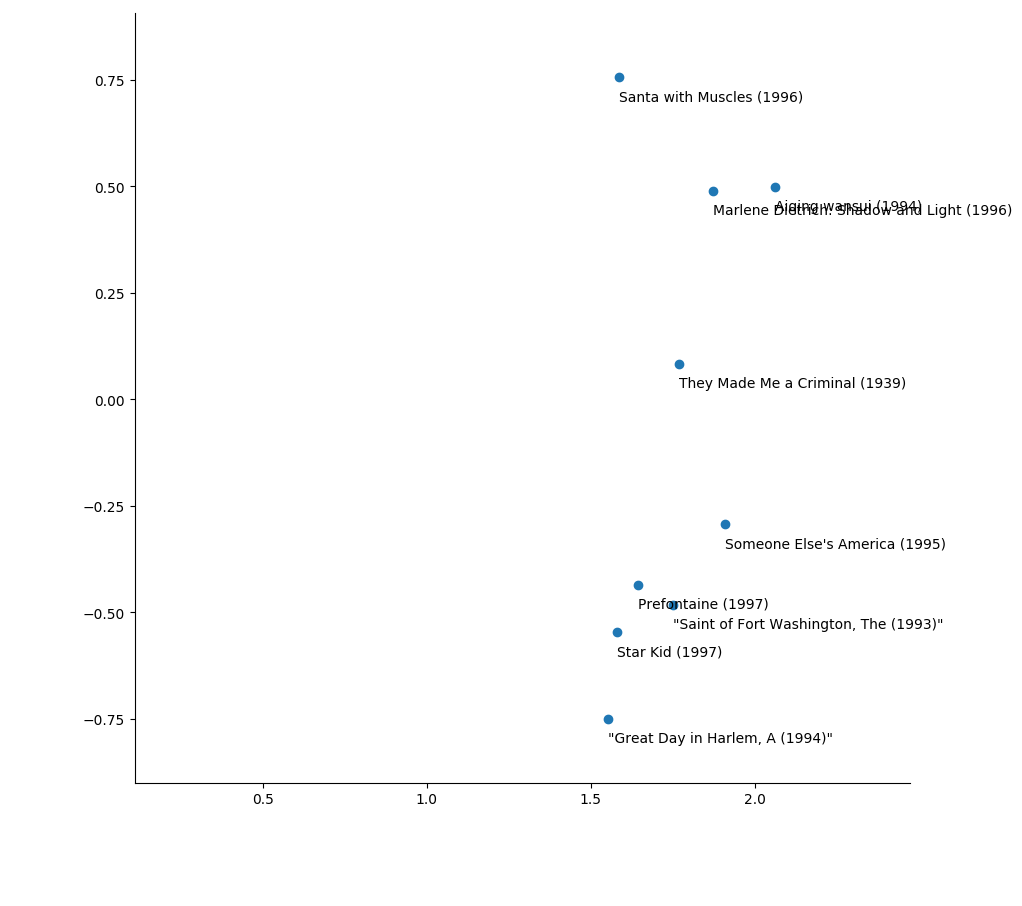
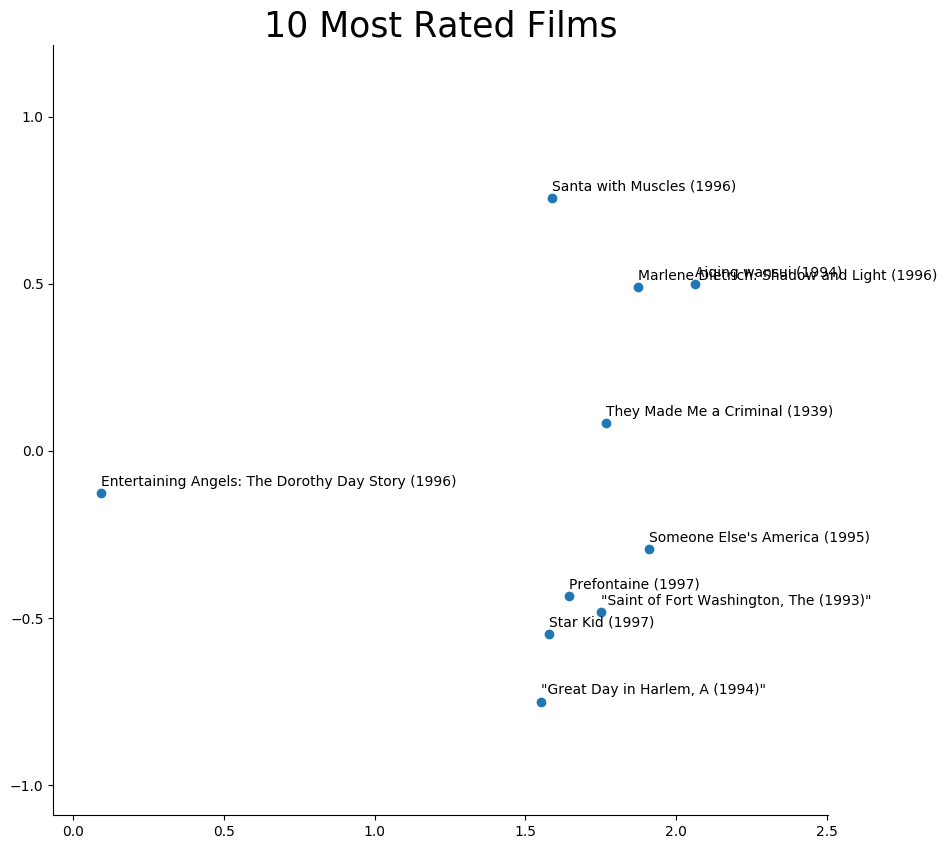
svd visualization working

diff --git a/src/svd_visualization.py b/src/svd_visualization.py
@@ -9,7 +9,7 @@ movie_names = create_dict()  # dict[movie_id: movie_name]
 movie_ratings = import_data()  # movies[movie_id, ratings[rating]]
 
 
-def twoD_viz(title, movie_ids, xy_coords, rect=None, dpi=100, off_set=0.04):
+def twoD_viz(title, movie_ids, xy_coords, rect, dpi=100, buf=0.1, annotate=True):
     '''
     param: movie_ids: 1d-list or numpy array of [movie_ids]
     param: xy_coords: 2d numpy array of [movie_x, movie_y] corresponding to 
@@ -20,12 +20,17 @@ def twoD_viz(title, movie_ids, xy_coords, rect=None, dpi=100, off_set=0.04):
     if rect is None:
         rect = np.array([xy_coords[:, 0].min(), xy_coords[:, 0].max(), 
             xy_coords[:, 1].min(), xy_coords[:, 1].max()])
-        print(rect)
+        width = rect[1] - rect[0]
+        height = rect[3] - rect[2]
+        rect[0] -= width * buf
+        rect[1] += width * buf
+        rect[2] -= height * buf
+        rect[3] += height * buf
 
     # create plot dimensions, resolution, and axis ranges
     plt.clf()
-    plt.title(title)
     fig, ax = plt.subplots(figsize=(10., 10.), dpi=dpi)
+    ax.set_title(title, fontdict={'fontsize': 25})
     ax.axis(rect)
 
     # get relative sizes and ranges of drawing window
@@ -40,15 +45,11 @@ def twoD_viz(title, movie_ids, xy_coords, rect=None, dpi=100, off_set=0.04):
     ax.spines['right'].set_visible(False)
 
     # draw annotations next to points with coordinate offsets
-    for i, movie in enumerate(movie_ids):
-        label_position = xy_coords[i]
-        # dynamic offsets
-        #label_position[0] += np.sign(xy_coords[i, 0] - x_mid) * off_set * x_interval
-        #label_position[1] += np.sign(xy_coords[i, 1] - y_mid) * off_set * y_interval
-        # static offsets
-        #label_position[0] -= .05 * x_interval
-        label_position[1] -= .03 * y_interval
-        ax.annotate(movie_names[movie], xy_coords[i], xytext=label_position)
+    if annotate:
+        for i, movie in enumerate(movie_ids):
+            label_position = xy_coords[i]
+            label_position[1] += .01 * y_interval
+            ax.annotate(movie_names[movie], xy_coords[i], xytext=label_position)
 
     # save plot
     print('saving...', title)
@@ -81,11 +82,15 @@ def viz_tasks(V):
         for genre in [import_genres(['Animation']), import_genres(['Sci-Fi']), 
         import_genres(['War'])]]
 
-    #rect = [V[:, 0].min(), V[:, 0].max(), V[:, 1].min(), V[:, 1].max()]
-    twoD_viz('10 Random Films', rand_movies, V[rand_movies - 1])
-    twoD_viz('10 Most Popular Films', most_popular, V[most_popular - 1])
-    twoD_viz('10 Most Rated Films', best_movies, V[best_movies - 1])
-    twoD_viz('Top 10 Animation Films', animation, V[animation - 1])
+    rect = [V[:, 0].min(), V[:, 0].max(), V[:, 1].min(), V[:, 1].max()]
+
+    twoD_viz('All Movies', movie_ids, V, rect, annotate=False)
+    twoD_viz('10 Random Films', rand_movies, V[rand_movies - 1], rect)
+    twoD_viz('10 Most Popular Films', most_popular, V[most_popular - 1], rect)
+    twoD_viz('10 Most Rated Films', best_movies, V[best_movies - 1], rect)
+    twoD_viz('Top 10 Genre: Animation Films', animation, V[animation - 1], rect)
+    twoD_viz('Top 10 Genre: Sci-Fi Films', scifi, V[scifi - 1], rect)
+    twoD_viz('Top 10 Genre: War Films', war, V[war - 1], rect)
     print('done!')
 
 if __name__ == '__main__':

diff --git a/src/common.py b/src/common.py
@@ -92,11 +92,8 @@ def import_genres(genres):
                 if line[i] == '1':
                     g_list[movie][i] = 1
 
-<<<<<<< HEAD
     ranks = [(i+1, []) for i in range(1682)]
-=======
     ranks = [(i+1, []) for i in range(N)]
->>>>>>> 0a8ef59623f25a2625352fce5373d50ffa8563b5
     with open('../data/data.txt','r') as f:
         for line in f:
             lst = line.split()
